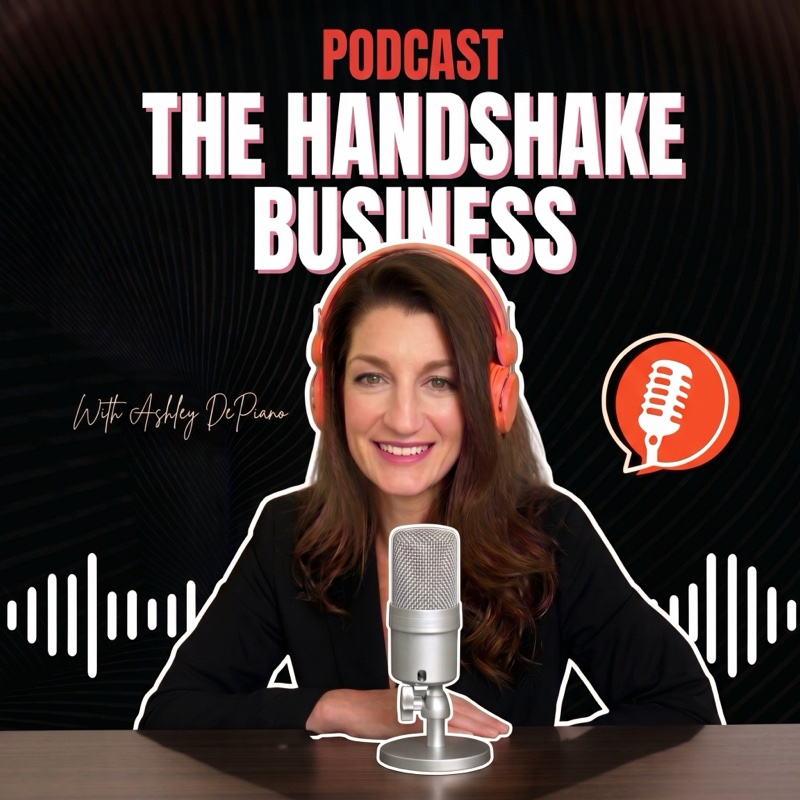
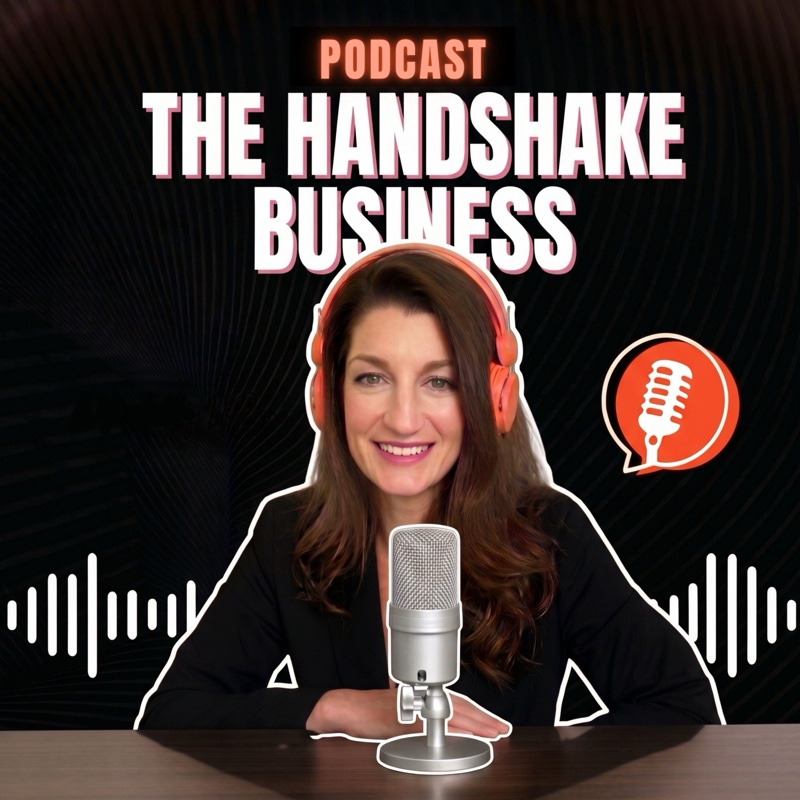
Add marketing plan vs strategy article; update podcast cover image
- New blog article: /blog/marketing-plan-vs-marketing-strategy.html (Hub 1, Article #5)
- Article/FAQPage JSON-LD schema, internal links to strategy-first.html and do-i-need-a-marketing-strategy.html
- Updated podcast-cover-opt.jpg (optimized from prior session, not previously committed)

Changed region(s): [[0.375, 0.0312, 0.625, 0.125], [0.0938, 0.5, 0.3438, 0.5625]]

diff --git a/blog/marketing-plan-vs-marketing-strategy.html b/blog/marketing-plan-vs-marketing-strategy.html
@@ -1,0 +1,384 @@
+<!DOCTYPE html>
+<html lang="en">
+<head>
+  <link rel="preconnect" href="https://fonts.googleapis.com" />
+  <link rel="preconnect" href="https://fonts.gstatic.com" crossorigin />
+  <link rel="preload" as="style" href="https://fonts.googleapis.com/css2?family=Poppins:ital,wght@0,400;0,500;0,600;0,700;0,800;0,900;1,400&display=swap" onload="this.onload=null;this.rel='stylesheet'" />
+  <noscript><link rel="stylesheet" href="https://fonts.googleapis.com/css2?family=Poppins:ital,wght@0,400;0,500;0,600;0,700;0,800;0,900;1,400&display=swap" /></noscript>
+  <meta charset="UTF-8" />
+  <meta name="viewport" content="width=device-width, initial-scale=1.0" />
+  <title>What's the Difference Between a Marketing Plan and a Marketing Strategy?</title>
+  <meta name="description" content="A marketing plan tells you what to do. A strategy tells you why it would work. Here's the difference — and how to know which one your business is actually missing." />
+  <meta name="author" content="Ashley DePiano" />
+  <link rel="canonical" href="https://connectidcrm.com/blog/marketing-plan-vs-marketing-strategy.html" />
+  <link rel="icon" type="image/png" href="/favicon.png" />
+  <link rel="apple-touch-icon" href="/favicon.png" />
+  <!-- Open Graph -->
+  <meta property="og:type"        content="article" />
+  <meta property="og:site_name"   content="Connectid" />
+  <meta property="og:url"         content="https://connectidcrm.com/blog/marketing-plan-vs-marketing-strategy.html" />
+  <meta property="og:title"       content="What's the Difference Between a Marketing Plan and a Marketing Strategy?" />
+  <meta property="og:description" content="A marketing plan tells you what to do. A strategy tells you why it would work. Here's the difference — and how to know which one your business is actually missing." />
+  <meta property="og:image"       content="https://connectidcrm.com/og-image.jpg" />
+  <meta property="og:image:width"  content="1200" />
+  <meta property="og:image:height" content="630" />
+  <!-- Twitter Card -->
+  <meta name="twitter:card"        content="summary_large_image" />
+  <meta name="twitter:site"        content="@connectidcrm" />
+  <meta name="twitter:title"       content="What's the Difference Between a Marketing Plan and a Marketing Strategy?" />
+  <meta name="twitter:description" content="A plan tells you what to do. A strategy tells you why it would work. Here's how to tell which one you're missing." />
+  <meta name="twitter:image"       content="https://connectidcrm.com/og-image.jpg" />
+<script type="application/ld+json">
+{
+  "@context": "https://schema.org",
+  "@graph": [
+    {
+      "@type": "Article",
+      "@id": "https://connectidcrm.com/blog/marketing-plan-vs-marketing-strategy.html#article",
+      "headline": "What's the Difference Between a Marketing Plan and a Marketing Strategy?",
+      "description": "A marketing plan tells you what to do. A strategy tells you why it would work. Here's the difference — and how to know which one your business is actually missing.",
+      "url": "https://connectidcrm.com/blog/marketing-plan-vs-marketing-strategy.html",
+      "datePublished": "2026-09-08",
+      "dateModified": "2026-09-08",
+      "author": {
+        "@type": "Person",
+        "name": "Ashley DePiano",
+        "url": "https://connectidcrm.com/about.html"
+      },
+      "publisher": {
+        "@id": "https://connectidcrm.com/#organization"
+      },
+      "isPartOf": {
+        "@id": "https://connectidcrm.com/blog.html#blog"
+      },
+      "about": {
+        "@id": "https://connectidcrm.com/strategy-first.html"
+      },
+      "keywords": ["marketing plan", "marketing strategy", "home service marketing", "fractional CMO", "marketing plan vs strategy"]
+    },
+    {
+      "@type": "Organization",
+      "@id": "https://connectidcrm.com/#organization",
+      "name": "Connectid",
+      "url": "https://connectidcrm.com",
+      "telephone": "+19144542228"
+    },
+    {
+      "@type": "BreadcrumbList",
+      "itemListElement": [
+        { "@type": "ListItem", "position": 1, "name": "Home", "item": "https://connectidcrm.com/" },
+        { "@type": "ListItem", "position": 2, "name": "Blog", "item": "https://connectidcrm.com/blog.html" },
+        { "@type": "ListItem", "position": 3, "name": "Marketing Plan vs. Marketing Strategy", "item": "https://connectidcrm.com/blog/marketing-plan-vs-marketing-strategy.html" }
+      ]
+    },
+    {
+      "@type": "FAQPage",
+      "mainEntity": [
+        {
+          "@type": "Question",
+          "name": "What's the difference between a marketing plan and a marketing strategy?",
+          "acceptedAnswer": {
+            "@type": "Answer",
+            "text": "A marketing plan is a calendar of actions: which platforms you're posting on, how often, what the ad budget is, when promotions run. A marketing strategy is the thinking that explains why those actions make sense for your specific business, customer, and situation. The plan is the schedule. The strategy is what gives the schedule a reason to exist."
+          }
+        },
+        {
+          "@type": "Question",
+          "name": "How do I know if my business needs a marketing strategy?",
+          "acceptedAnswer": {
+            "@type": "Answer",
+            "text": "Three questions reveal it quickly. Can you write one sentence describing exactly who your best customer is and what they need to hear to choose you? Do you know specifically where your best jobs come from — not just 'referrals and Google,' but what kind and from whom? If you stopped running ads tomorrow, do you know what would happen to your lead volume? If any of those are hard to answer, you don't have a strategy underneath your marketing yet."
+          }
+        },
+        {
+          "@type": "Question",
+          "name": "Where do I start if I don't have a marketing strategy yet?",
+          "acceptedAnswer": {
+            "@type": "Answer",
+            "text": "Start with your last twenty best jobs. They probably share more than you'd expect — a certain customer type, a certain problem, a certain path they took to find you. That pattern is the beginning of a real strategy. From there you build the core message, map the customer journey, and put together a plan connected to both."
+          }
+        }
+      ]
+    }
+  ]
+}
+</script>
+  <style>
+    *, *::before, *::after { box-sizing: border-box; margin: 0; padding: 0; }
+    :root {
+      --navy: #111111; --navy2: #1a1a1a; --navy3: #222222;
+      --red: #EB3656; --orange: #FF1744;
+      --brand-gradient: linear-gradient(135deg, #FA5E36, #EB3656);
+      --white: #ffffff; --gray-100: #FAF9F8; --gray-200: #F0EFEE;
+      --gray-400: #adb5bd; --gray-600: #6c757d; --text: #1a1a1a;
+      --radius: 10px; --shadow: 0 4px 24px rgba(0,0,0,0.08);
+    }
+    html { scroll-behavior: smooth; }
+    body { font-family: 'Poppins', sans-serif; color: var(--text); background: var(--white); font-size: 16px; line-height: 1.6; -webkit-font-smoothing: antialiased; }
+    h1, h2, h3, h4, h5, h6 { font-family: 'Poppins', sans-serif; }
+    .container { max-width: 1100px; margin: 0 auto; padding: 0 24px; }
+    .btn { display: inline-flex; align-items: center; gap: 8px; padding: 14px 28px; border-radius: 7px; font-size: 15px; font-weight: 700; text-decoration: none; transition: all .18s; cursor: pointer; border: none; }
+    .btn-primary { background: var(--brand-gradient); color: white; }
+    .btn-primary:hover { opacity: 0.9; transform: translateY(-1px); box-shadow: 0 6px 20px rgba(235,54,86,0.35); }
+    .btn-sm { padding: 9px 20px; font-size: 13px; }
+
+    /* Nav */
+    nav { position: fixed; top: 0; left: 0; right: 0; z-index: 100; background: rgba(17,17,17,0.97); backdrop-filter: blur(10px); border-bottom: 1px solid rgba(255,255,255,0.06); }
+    .nav-inner { display: flex; align-items: center; justify-content: space-between; padding: 16px 24px; max-width: 1100px; margin: 0 auto; }
+    .nav-logo img { height: 32px; display: block; }
+    .nav-links { display: flex; align-items: center; gap: 28px; list-style: none; margin-left: auto; }
+    .nav-links a { color: rgba(255,255,255,0.75); text-decoration: none; font-size: 14px; font-weight: 500; transition: color .15s; }
+    .nav-links a:hover, .nav-links a.active { color: white; }
+
+    /* Article hero */
+    .article-hero { background: var(--navy); padding: 136px 24px 72px; }
+    .article-hero-inner { max-width: 760px; margin: 0 auto; }
+    .article-breadcrumb { display: flex; align-items: center; gap: 8px; margin-bottom: 24px; }
+    .article-breadcrumb a { color: rgba(255,255,255,0.45); text-decoration: none; font-size: 13px; font-weight: 500; transition: color .15s; }
+    .article-breadcrumb a:hover { color: rgba(255,255,255,0.8); }
+    .article-breadcrumb span { color: rgba(255,255,255,0.25); font-size: 13px; }
+    .article-tag { display: inline-block; background: rgba(235,54,86,0.2); border: 1px solid rgba(235,54,86,0.35); border-radius: 20px; padding: 5px 14px; font-size: 11px; font-weight: 800; text-transform: uppercase; letter-spacing: 1.2px; color: var(--orange); margin-bottom: 20px; }
+    .article-hero h1 { font-size: clamp(26px, 4vw, 42px); font-weight: 900; color: white; letter-spacing: -1px; line-height: 1.12; margin-bottom: 20px; }
+    .article-meta { display: flex; gap: 20px; align-items: center; flex-wrap: wrap; }
+    .article-meta-item { font-size: 13px; color: rgba(255,255,255,0.4); display: flex; align-items: center; gap: 6px; }
+    .article-meta-item strong { color: rgba(255,255,255,0.7); font-weight: 600; }
+
+    /* Article body */
+    .article-body { padding: 72px 24px 0; }
+    .article-body-inner { max-width: 760px; margin: 0 auto; }
+    .article-body-inner p { font-size: 16px; line-height: 1.75; color: #2a2a2a; margin-bottom: 22px; }
+    .article-body-inner h2 { font-size: 22px; font-weight: 800; letter-spacing: -0.3px; line-height: 1.25; color: var(--navy); margin-top: 48px; margin-bottom: 18px; }
+    .article-body-inner a { color: var(--red); text-decoration: none; font-weight: 600; border-bottom: 1px solid rgba(235,54,86,0.3); transition: border-color .15s; }
+    .article-body-inner a:hover { border-color: var(--red); }
+    .article-body-inner strong { font-weight: 700; color: var(--navy); }
+
+    /* Pull quote */
+    .pull-quote { border-left: 3px solid var(--red); padding: 4px 0 4px 24px; margin: 36px 0; }
+    .pull-quote p { font-size: 18px; font-weight: 600; color: var(--navy); line-height: 1.55; font-style: italic; margin-bottom: 0; }
+
+    /* CTA box */
+    .article-cta { background: var(--navy); border-radius: 16px; padding: 48px; margin: 64px 0 0; text-align: center; }
+    .article-cta h3 { font-size: 22px; font-weight: 900; color: white; letter-spacing: -0.3px; margin-bottom: 12px; }
+    .article-cta p { color: rgba(255,255,255,0.6); font-size: 15px; margin-bottom: 28px; line-height: 1.65; }
+    .cta-actions { display: flex; gap: 14px; justify-content: center; flex-wrap: wrap; align-items: center; }
+    .cta-phone { font-size: 20px; font-weight: 900; color: white; text-decoration: none; letter-spacing: -0.3px; }
+    .cta-phone:hover { color: var(--orange); }
+    .cta-divider { color: rgba(255,255,255,0.2); font-size: 20px; }
+
+    /* Related articles */
+    .related-section { padding: 64px 24px 88px; background: var(--gray-100); }
+    .related-inner { max-width: 760px; margin: 0 auto; }
+    .related-label { font-size: 11px; font-weight: 800; text-transform: uppercase; letter-spacing: 1.5px; color: var(--red); margin-bottom: 24px; display: block; }
+    .related-grid { display: grid; grid-template-columns: 1fr 1fr; gap: 16px; }
+    .related-card { background: white; border: 1px solid var(--gray-200); border-radius: var(--radius); padding: 24px; text-decoration: none; display: block; transition: all .15s; }
+    .related-card:hover { transform: translateY(-2px); box-shadow: var(--shadow); border-color: transparent; }
+    .related-card-tag { font-size: 11px; font-weight: 800; text-transform: uppercase; letter-spacing: 1px; color: var(--red); margin-bottom: 10px; display: block; }
+    .related-card h4 { font-size: 15px; font-weight: 800; color: var(--navy); line-height: 1.35; border: none; }
+
+    /* Footer */
+    footer { background: var(--navy); border-top: 1px solid rgba(255,255,255,0.06); padding: 32px 24px; }
+    .footer-inner { max-width: 1100px; margin: 0 auto; display: flex; align-items: center; justify-content: space-between; flex-wrap: wrap; gap: 16px; font-size: 13px; color: rgba(255,255,255,0.35); }
+    .footer-links { display: flex; gap: 24px; flex-wrap: wrap; }
+    .footer-links a { color: rgba(255,255,255,0.45); text-decoration: none; font-size: 13px; transition: color .15s; }
+    .footer-links a:hover { color: white; }
+
+    /* Modal */
+    .modal-overlay { position: fixed; inset: 0; background: rgba(0,0,0,0.7); z-index: 1000; display: none; align-items: center; justify-content: center; padding: 16px; }
+    .modal-overlay.open { display: flex; }
+    .modal-box { background: white; border-radius: 14px; width: 100%; max-width: 560px; overflow: hidden; box-shadow: 0 24px 80px rgba(0,0,0,0.4); }
+    .modal-header { display: flex; justify-content: space-between; align-items: center; padding: 20px 24px; border-bottom: 1px solid var(--gray-200); }
+    .modal-title { font-size: 16px; font-weight: 800; }
+    .modal-sub { font-size: 12px; color: var(--gray-600); margin-top: 2px; }
+    .modal-close { background: none; border: none; font-size: 18px; cursor: pointer; color: var(--gray-600); padding: 4px; line-height: 1; }
+    .modal-close:hover { color: var(--text); }
+    .modal-iframe { width: 100%; height: 560px; border: none; display: block; }
+
+    @media (max-width: 768px) {
+      .nav-links { display: none; }
+      .related-grid { grid-template-columns: 1fr; }
+      .article-cta { padding: 36px 24px; }
+      .cta-actions { flex-direction: column; gap: 10px; }
+      .cta-divider { display: none; }
+    }
+  </style>
+  <!-- Google tag (gtag.js) -->
+  <script async src="https://www.googletagmanager.com/gtag/js?id=G-KCCTS33QS6"></script>
+  <script>
+    window.dataLayer = window.dataLayer || [];
+    function gtag(){dataLayer.push(arguments);}
+    gtag('js', new Date());
+    gtag('config', 'G-KCCTS33QS6');
+  </script>
+</head>
+<body>
+
+<nav>
+  <div class="nav-inner">
+    <a href="/index.html" class="nav-logo"><img src="/logo-light.png" alt="Connectid" /></a>
+    <ul class="nav-links">
+      <li><a href="/strategy-first.html">Strategy First</a></li>
+      <li><a href="/services.html">Services</a></li>
+      <li><a href="/strategy-first-guide.html">Our Process</a></li>
+      <li><a href="/about.html">About</a></li>
+      <li><a href="/blog.html" class="active">Blog</a></li>
+      <li><a href="/marketing-strategy.html">Marketing Strategy</a></li>
+      <li><a href="/index.html#testimonials">Testimonials</a></li>
+      <li><a href="#" onclick="openBooking(); return false;" class="btn btn-primary btn-sm">Book a Call</a></li>
+    </ul>
+  </div>
+</nav>
+
+<!-- Hero -->
+<div class="article-hero">
+  <div class="article-hero-inner">
+    <div class="article-breadcrumb">
+      <a href="/index.html">Home</a>
+      <span>›</span>
+      <a href="/blog.html">Blog</a>
+      <span>›</span>
+      <span style="color: rgba(255,255,255,0.55);">Marketing Strategy</span>
+    </div>
+    <span class="article-tag">Marketing Strategy</span>
+    <h1>What's the Difference Between a Marketing Plan and a Marketing Strategy?</h1>
+    <div class="article-meta">
+      <div class="article-meta-item">By <strong>Ashley DePiano</strong></div>
+      <div class="article-meta-item">September 8, 2026</div>
+      <div class="article-meta-item">7 min read</div>
+    </div>
+  </div>
+</div>
+
+<!-- Article Body -->
+<div class="article-body">
+  <div class="article-body-inner">
+
+    <p>You got a proposal from a marketing agency. It had a content calendar, an ad budget breakdown, maybe a new email template or a logo refresh. You looked at it and thought: this is a lot of activity, but does any of it explain why someone would choose my business over the one down the road? It probably didn't say.</p>
+
+    <p>What you had was a marketing plan. What you needed first was a marketing strategy. The difference between those two things is exactly why a lot of home service businesses spend real money on marketing and still can't tell you what worked or why.</p>
+
+    <h2>A plan tells you what to do. A strategy tells you why it would work.</h2>
+
+    <p>A marketing plan is a calendar: which platforms you're posting on, how often, what the ad budget is, when the seasonal promotion runs. It answers "what are we doing this quarter."</p>
+
+    <p>A marketing strategy answers something else entirely. Who is the specific person that becomes your best job. What do they need to hear from you before they'll call. What makes you the right answer when they're looking at three other options. It answers "why would this specific person, in this specific situation, choose us."</p>
+
+    <p>The plan is the schedule. The strategy is the thinking that gives the schedule a reason to exist.</p>
+
+    <h2>What a marketing plan looks like in practice</h2>
+
+    <p>You've probably seen one. It's a spreadsheet or a slide deck with content themes by month, posting frequencies by platform, an ad spend line by channel, maybe a promotional calendar tied to busy seasons. A plan is concrete and schedulable. An agency can hand you one in two weeks.</p>
+
+    <p>A plan isn't worthless on its own. Once you have a strategy, a plan is exactly how you execute it. The problem is that plans get built before the strategy exists, so none of the activities have a real reason behind them. You're posting on Instagram because every business is supposed to be on social media. You're running Google Ads because a competitor is. You're sending emails because you collected addresses somewhere.</p>
+
+    <p>None of it is necessarily wrong. It's just not connected to anything. When the results don't come, there's no way to figure out which part failed, because there was never a hypothesis to test. That's a sequence problem, and it's more common than most business owners realize.</p>
+
+    <h2>What a marketing strategy looks like in practice</h2>
+
+    <p>A marketing strategy starts before you touch a channel or tactic. It starts with your customer: who is the specific person who becomes your best job, what does their world look like before they call you, what do they already believe about their problem, and what are they comparing you to when they're deciding.</p>
+
+    <p>From there you work out your core message. That's not a tagline. It's the true thing you can say to that specific customer about why you're the right answer for their situation, and it's what every piece of your plan should be expressing across every platform and every touchpoint.</p>
+
+    <p>Then you map the path from introduction to signed job. Where do people find out about you. What has to happen before they trust you enough to call. What happens between the call and the estimate. Where deals fall apart. Once you can see that path clearly, the right tactics become obvious because each one fills a specific gap in the journey.</p>
+
+    <p>That's what gives you a real way to evaluate any tactic: does this reach the right person, does it say the right thing, does it move them toward a decision. Without strategy underneath it, a plan can't answer those questions because it never asked them.</p>
+
+    <h2>Why most plans fail without strategy underneath them</h2>
+
+    <p>Agencies build plans because that's what agencies can deliver. Content production, ads management, email campaigns: these are schedulable, reportable, and they fit neatly in a proposal. Strategy takes longer and doesn't show up in a weekly deliverables list.</p>
+
+    <p>Strategy is the decision-making framework. It's the thing you know about your customer and your business that makes your plan make sense. Most agencies skip it not because they can't do it but because clients have been trained to measure output: posts published, clicks generated, open rates reported. Those feel like progress. They're often not.</p>
+
+    <p>When the results don't materialize, there's nothing to diagnose except the metrics, which were measuring the wrong thing from the start. If you've been through this with an agency, you're not alone. If you're still working out <a href="/blog/do-i-need-a-marketing-strategy.html">whether your business actually needs a strategy</a> before deciding on a plan, that's a good place to start.</p>
+
+    <h2>How to know which one your business is actually missing</h2>
+
+    <p>A few questions will show you where you stand.</p>
+
+    <p>Can you write one sentence that describes exactly who your best customer is and what they need to hear to choose you? If it takes a paragraph, or you're describing several different types of people, the strategy work hasn't been done.</p>
+
+    <p>Do you know specifically where your best jobs are coming from right now? Not "referrals and Google," but what kind of referral, from whom, and what the job typically looks like when it arrives that way.</p>
+
+    <p>If you stopped running ads tomorrow, do you know what would happen to your lead volume? If the honest answer is no, the spend is running on hope.</p>
+
+    <h2>Where to start if you don't have a strategy yet</h2>
+
+    <p>Start with what you already have. Your last twenty best jobs probably share more than you'd expect: a certain customer profile, a certain type of problem, a certain way they found you. That pattern is the beginning of a real strategy.</p>
+
+    <p>From there you build the core message, map the customer journey, and put together a 90-day plan connected to both. That's what the <a href="/strategy-first.html">Strategy First engagement</a> does: four weeks of actual strategy work so that every dollar you spend on marketing has a reason behind it and a way to measure whether it's earning its keep.</p>
+
+    <!-- CTA Box -->
+    <div class="article-cta">
+      <h3>Not sure which piece is missing?</h3>
+      <p>If you want to talk through where your marketing stands right now, call us or book a discovery call. We'll take a look together.</p>
+      <div class="cta-actions">
+        <a href="tel:+19144542228" class="cta-phone">(914) 454-2228</a>
+        <span class="cta-divider">|</span>
+        <a href="https://link.connectidcrm.com/widget/booking/rBfjlEMkmCmO5uszg1ET" target="_blank" class="btn btn-primary">Book a Discovery Call</a>
+      </div>
+    </div>
+
+  </div>
+</div>
+
+<!-- Related Articles -->
+<div class="related-section">
+  <div class="related-inner">
+    <span class="related-label">Keep Reading</span>
+    <div class="related-grid">
+      <a href="/blog/do-i-need-a-marketing-strategy.html" class="related-card">
+        <span class="related-card-tag">Marketing Strategy</span>
+        <h4>Do I Actually Need a Marketing Strategy, or Can I Just Keep Running Ads?</h4>
+      </a>
+      <a href="/blog/why-marketing-feels-like-throwing-money.html" class="related-card">
+        <span class="related-card-tag">Marketing Strategy</span>
+        <h4>Why Does My Marketing Feel Like I'm Just Throwing Money at Things?</h4>
+      </a>
+    </div>
+  </div>
+</div>
+
+<!-- Footer -->
+<footer>
+  <div class="footer-inner">
+    <span>&copy; 2026 Connectid. All rights reserved.</span>
+    <div class="footer-links">
+      <a href="/index.html">Home</a>
+      <a href="/strategy-first.html">Strategy First</a>
+      <a href="/services.html">Services</a>
+      <a href="/blog.html">Blog</a>
+      <a href="/about.html">About</a>
+      <a href="/contact.html">Contact</a>
+    </div>
+  </div>
+</footer>
+
+<!-- Booking Modal -->
+<div class="modal-overlay" id="bookingModal" onclick="if(event.target===this)closeBooking()">
+  <div class="modal-box">
+    <div class="modal-header">
+      <div>
+        <div class="modal-title">Book a Discovery Call</div>
+        <div class="modal-sub">30 minutes &middot; No pressure</div>
+      </div>
+      <button class="modal-close" onclick="closeBooking()">&times;</button>
+    </div>
+    <iframe class="modal-iframe" src="https://link.connectidcrm.com/widget/booking/rBfjlEMkmCmO5uszg1ET" title="Book a Discovery Call"></iframe>
+  </div>
+</div>
+
+<script>
+  function openBooking() {
+    document.getElementById('bookingModal').classList.add('open');
+    document.body.style.overflow = 'hidden';
+  }
+  function closeBooking() {
+    document.getElementById('bookingModal').classList.remove('open');
+    document.body.style.overflow = '';
+  }
+  document.addEventListener('keydown', function(e) {
+    if (e.key === 'Escape') closeBooking();
+  });
+</script>
+
+</body>
+</html>
